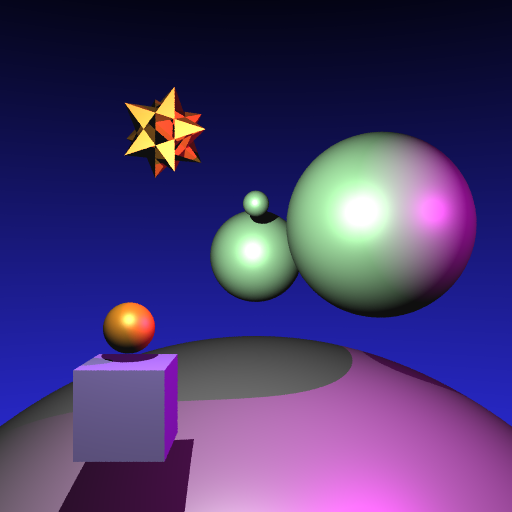
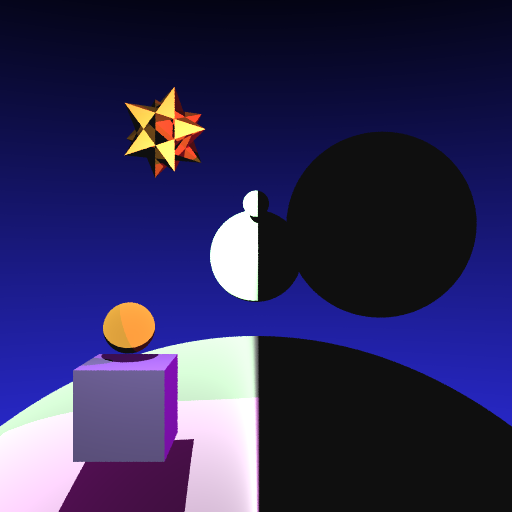
A4: fixed some of hierarchical rendering

diff --git a/A4/Primitive.cpp b/A4/Primitive.cpp
@@ -55,18 +55,18 @@ bool NonhierSphere::hit(const Ray &ray, float t_min, float t_max, HitRecord &rec
 	if (numberOfRoots > 0) {
         float temp = roots[0] < roots[1] ? roots[0] : roots[1];
         if (temp < t_max && temp > t_min) {
+            glm::vec3 p = ray.pointAtParameter(record.t);
             record.t = temp;
-            record.p = ray.pointAtParameter(record.t);
-            record.normal = (record.p - m_pos) / static_cast<float>(m_radius);
+            record.normal = (p - m_pos) / static_cast<float>(m_radius);
 
             return true;
         }
 
         temp = roots[0] < roots[1] ? roots[1] : roots[0];
         if (temp < t_max && temp > t_min) {
+            glm::vec3 p = ray.pointAtParameter(record.t);
             record.t = temp;
-            record.p = ray.pointAtParameter(record.t);
-            record.normal = (record.p - m_pos) / static_cast<float>(m_radius);
+            record.normal = (p - m_pos) / static_cast<float>(m_radius);
 
             return true;
         }
@@ -103,15 +103,16 @@ bool NonhierCuboid::hit(const Ray &ray, float t_min, float t_max, HitRecord &rec
 
     // Intersection case
     record.t = (tMin < 0 && tMax > 0) ? tMax : tMin;
-    // record.t = tMin;
-    record.p = ray.pointAtParameter(record.t);
 
-    if (glm::abs(record.p.x - minCorner.x) < EPSILON) record.normal = glm::vec3(-1.0f, 0, 0);
-    else if (glm::abs(record.p.x - maxCorner.x) < EPSILON) record.normal = glm::vec3(+1.0f, 0, 0);
-    else if (glm::abs(record.p.y - minCorner.y) < EPSILON) record.normal = glm::vec3(0, -1.0f, 0);
-    else if (glm::abs(record.p.y - maxCorner.y) < EPSILON) record.normal = glm::vec3(0, 1.0f, 0);
-    else if (glm::abs(record.p.z - minCorner.z) < EPSILON) record.normal = glm::vec3(0, 0, -1.0f);
-    else if (glm::abs(record.p.z - maxCorner.z) < EPSILON) record.normal = glm::vec3(0, 0, 1.0f);
+    glm::vec3 p = ray.pointAtParameter(record.t);
+    // record.t = tMin;
+
+    if (glm::abs(p.x - minCorner.x) < EPSILON) record.normal = glm::vec3(-1.0f, 0, 0);
+    else if (glm::abs(p.x - maxCorner.x) < EPSILON) record.normal = glm::vec3(+1.0f, 0, 0);
+    else if (glm::abs(p.y - minCorner.y) < EPSILON) record.normal = glm::vec3(0, -1.0f, 0);
+    else if (glm::abs(p.y - maxCorner.y) < EPSILON) record.normal = glm::vec3(0, 1.0f, 0);
+    else if (glm::abs(p.z - minCorner.z) < EPSILON) record.normal = glm::vec3(0, 0, -1.0f);
+    else if (glm::abs(p.z - maxCorner.z) < EPSILON) record.normal = glm::vec3(0, 0, 1.0f);
     
     return true;
 

diff --git a/A4/SceneNode.cpp b/A4/SceneNode.cpp
@@ -109,6 +109,7 @@ void SceneNode::translate(const glm::vec3& amount) {
 	set_transform( glm::translate(amount) * trans );
 }
 
+// Useless
 //---------------------------------------------------------------------------------------
 void hitDfs(
 	const SceneNode *node,
@@ -171,29 +172,54 @@ void hitDfs(
 //---------------------------------------------------------------------------------------
 bool SceneNode::hit(const Ray &ray, float t_min, float t_max, HitRecord &record) const {
 
+	vec3 a = ray.getOrigin();
+	vec3 b = ray.getDirection();
+	vec4 transformedOrigin = invtrans * vec4(a.x, a.y, a.z, 1.0);
+	vec4 transformedDirection = invtrans * vec4(b.x, b.y, b.z, 0.0);
+
+	Ray transformedRay(
+		vec3(transformedOrigin.x, transformedOrigin.y, transformedOrigin.z),
+		vec3(transformedDirection.x, transformedDirection.y, transformedDirection.z)
+	);
+
+	HitRecord tempRecord;
 	bool hitAnything = false;
 	double closestSoFar = t_max;
 
-	const SceneNode *node = this;
-	glm::mat4 M(1.0f);
+	for (const SceneNode *child: children) {
+		// if (child->m_nodeType != NodeType::GeometryNode)
+		// 	continue;
 
-	// for (const SceneNode *child: node->children) {
-	// 	if (child->m_nodeType != NodeType::GeometryNode)
-	// 		continue;
+		// const GeometryNode *geometryNode = static_cast<const GeometryNode *>(child);
 
-	// 	const GeometryNode *geometryNode = static_cast<const GeometryNode *>(child);
+		// HitRecord tempRecord;
 
-	// 	HitRecord tempRecord;
+		// if (geometryNode->m_primitive->hit(ray, t_min, closestSoFar, tempRecord)) {
+		// 	hitAnything = true;
+		// 	tempRecord.material = geometryNode->m_material;
+		// 	closestSoFar = tempRecord.t;
+		// 	record = tempRecord;
+		// }
+		if (child->hit(transformedRay, t_min, closestSoFar, tempRecord)) {
+			hitAnything = true;
+			closestSoFar = tempRecord.t;
+			record = tempRecord;
+		}
+	}
 
-	// 	if (geometryNode->m_primitive->hit(ray, t_min, closest_so_far, tempRecord)) {
-	// 		hit_anything = true;
-	// 		tempRecord.material = geometryNode->m_material;
-	// 		closest_so_far = tempRecord.t;
-	// 		record = tempRecord;
-	// 	}
-	// }
-
-	hitDfs(node, ray, t_min, t_max, record, hitAnything, closestSoFar, M);
+	if (hitAnything) {
+		vec4 transformedNormal = 
+				glm::transpose(invtrans) *
+				vec4(
+					record.normal.x,
+					record.normal.y,
+					record.normal.z,
+					0.0
+				);
+			record.normal = vec3(
+				transformedNormal.x, transformedNormal.y, transformedNormal.z
+			);
+	}
 
 	return hitAnything;
 }

diff --git a/A4/GeometryNode.cpp b/A4/GeometryNode.cpp
@@ -2,6 +2,15 @@
 
 #include "GeometryNode.hpp"
 
+#include <iostream>
+using namespace std;
+
+#include <glm/glm.hpp>
+#include <glm/ext.hpp>
+#include <glm/gtx/transform.hpp>
+
+using namespace glm;
+
 //---------------------------------------------------------------------------------------
 GeometryNode::GeometryNode(
 	const std::string & name, Primitive *prim, Material *mat )
@@ -26,4 +35,53 @@ void GeometryNode::setMaterial( Material *mat )
 	//     crash the program.
 
 	m_material = mat;
+}
+
+//---------------------------------------------------------------------------------------
+bool GeometryNode::hit(const Ray &ray, float t_min, float t_max, HitRecord &record) const {
+	vec3 a = ray.getOrigin();
+	vec3 b = ray.getDirection();
+	vec4 transformedOrigin = invtrans * vec4(a.x, a.y, a.z, 1.0);
+	vec4 transformedDirection = invtrans * vec4(b.x, b.y, b.z, 0.0);
+
+	Ray transformedRay(
+		vec3(transformedOrigin.x, transformedOrigin.y, transformedOrigin.z),
+		vec3(transformedDirection.x, transformedDirection.y, transformedDirection.z)
+	);
+
+	HitRecord tempRecord;
+	tempRecord.material = nullptr;
+	bool hitAnything = false;
+	double closestSoFar = t_max;
+
+	for (const SceneNode *child: children) {
+		if (child->hit(transformedRay, t_min, closestSoFar, tempRecord)) {
+			hitAnything = true;
+			closestSoFar = tempRecord.t;
+			record = tempRecord;
+		}
+	}
+
+	if (m_primitive->hit(transformedRay, t_min, closestSoFar, tempRecord)) {
+		if (tempRecord.material == nullptr) tempRecord.material = m_material;
+		hitAnything = true;
+		closestSoFar = tempRecord.t;
+		record = tempRecord;
+	}
+
+	if (hitAnything) {
+		vec4 transformedNormal = 
+				glm::transpose(invtrans) *
+				vec4(
+					record.normal.x,
+					record.normal.y,
+					record.normal.z,
+					0.0
+				);
+			record.normal = vec3(
+				transformedNormal.x, transformedNormal.y, transformedNormal.z
+			);
+	}
+
+	return hitAnything;
 }

diff --git a/A4/SceneNode.hpp b/A4/SceneNode.hpp
@@ -42,7 +42,7 @@ public:
     void scale(const glm::vec3& amount);
     void translate(const glm::vec3& amount);
 
-    bool hit(const Ray &ray, float t_min, float t_max, HitRecord &record) const;
+    virtual bool hit(const Ray &ray, float t_min, float t_max, HitRecord &record) const;
 
 	friend std::ostream & operator << (std::ostream & os, const SceneNode & node);
 

diff --git a/A4/A4.cpp b/A4/A4.cpp
@@ -58,7 +58,9 @@ vec3 rayColor(
 
 			for (const Light * light: lights) {
 
-				vec3 pAdjusted = record.p + (light->position - record.p) * EPSILON;
+				vec3 p = ray.pointAtParameter(record.t);
+
+				vec3 pAdjusted = p + (light->position - p) * EPSILON;
 
 				Ray shadowRay(pAdjusted, light->position - pAdjusted);
 

diff --git a/A4/Mesh.cpp b/A4/Mesh.cpp
@@ -56,7 +56,6 @@ bool Mesh::hit(const Ray &ray, float t_min, float t_max, HitRecord &record) cons
 
 		// Hit case
 		record.t = t;
-		record.p = ray.pointAtParameter(t);
 		record.normal = glm::cross(col1, col2);
 		return true;
 	}

diff --git a/A4/GeometryNode.hpp b/A4/GeometryNode.hpp
@@ -13,6 +13,8 @@ public:
 
 	void setMaterial( Material *material );
 
+	virtual bool hit(const Ray &ray, float t_min, float t_max, HitRecord &record) const override;
+
 	Material *m_material;
 	Primitive *m_primitive;
 };

diff --git a/A4/Primitive.hpp b/A4/Primitive.hpp
@@ -8,7 +8,6 @@
 
 struct HitRecord {
   float t;
-  glm::vec3 p;
   glm::vec3 normal;
   Material *material;
 };
